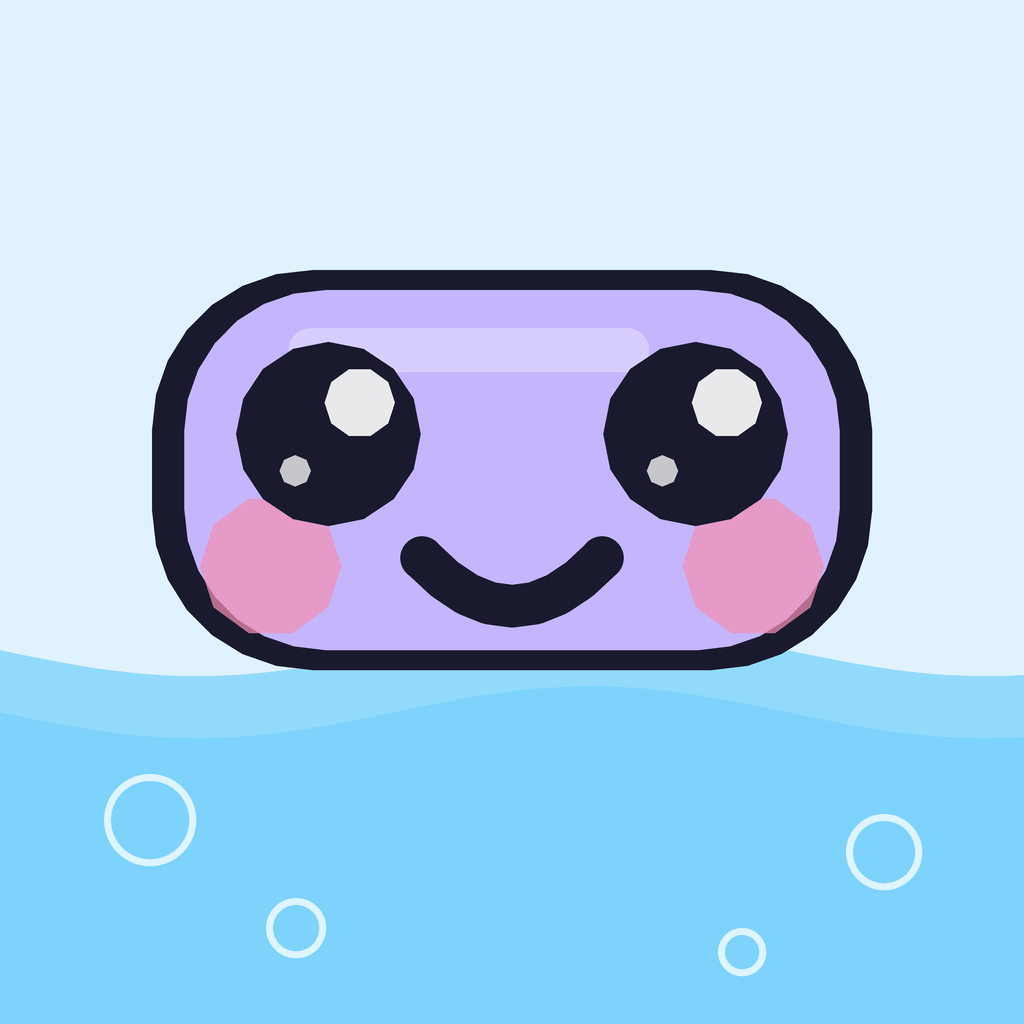
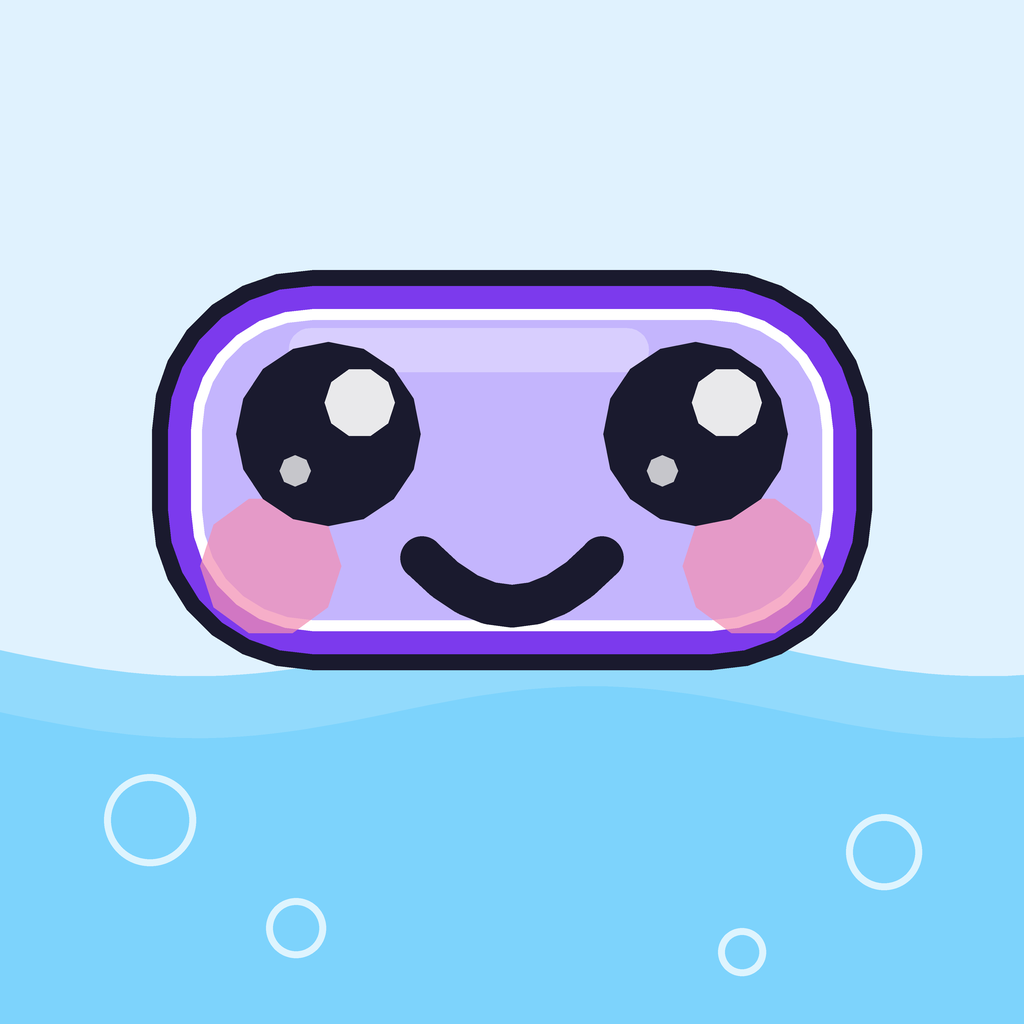
Give the soap character a violet+white sticker rim
Adds a double layer between the existing dark outline and the color
fill: a violet band (the same #7c3aed already used everywhere else in
the UI), then a thicker white band inset inside it. Violet goes first
because the lane itself is near-white (Spawner.gd's lane fill is
Color(1,1,1,0.92)) — a plain white rim alone would wash out against
it regardless of which mood color the fill is in.

SoapArt.body_violet()/body_white() are the new single source of
truth, and SoapArt.paint() draws them for every screen that already
routes through it (Win/Fail/GameComplete screens, the tutorial, the
logo, the in-game soap). MiniSoapIcon's two textured-skin branches
draw outline+fill by hand rather than through paint(), so those got
the same two layers added directly to stay in sync with the rest.

Also updates tools/generate_app_icon.py, the Python port used to
render SoapEscape_AppIcon_1024.png, with the same formulas, and
regenerates that PNG so it doesn't go stale next to this change.

Claude-Session: https://claude.ai/code/session_01VzHKSvNJpMF83EfecExY4v

Changed region(s): [[0.1562, 0.2812, 0.8438, 0.6562]]

diff --git a/tools/generate_app_icon.py b/tools/generate_app_icon.py
@@ -29,6 +29,14 @@ SKY = (224, 242, 254)       # #e0f2fe
 WATER = (125, 211, 252)     # #7dd3fc
 OUTLINE = (26, 26, 46)      # #1a1a2e
 FILL_CALM = (196, 181, 253) # #c4b5fd
+VIOLET_BAND = (124, 58, 237)  # #7c3aed - sticker rim, mirrors SoapArt.VIOLET_BAND_COLOR
+WHITE_BAND = (255, 255, 255) # sticker rim, mirrors SoapArt.WHITE_BAND_COLOR
+
+# Same absolute-band-width formulas as SoapArt.body_violet()/body_white()/
+# body_fill() - a reference hw of 18 is BASE_WIDTH at scale 1.0.
+_VIOLET_BAND_W = 0.80 / 18.0
+_WHITE_BAND_W = 1.15 / 18.0
+_FILL_GAP = 0.55 / 18.0
 SHEEN = (255, 255, 255, 87)   # white 0.34
 SHINE = (255, 255, 255, 230)  # white 0.90
 SPARK = (255, 255, 255, 191)  # white 0.75
@@ -116,9 +124,21 @@ def paint_soap(img, cx, cy, scale):
     hw, hh = w * 0.5, h * 0.5
     body_r = min(hw, hh) * 0.80
 
-    # Body: dark outline polygon, inset lavender fill, specular streak
+    # Body: dark outline, violet+white sticker rim, inset lavender fill,
+    # specular streak. Violet first - the lane itself is near-white, so a
+    # plain white rim alone washed out against it.
+    vw = hw * _VIOLET_BAND_W
+    ww = hw * _WHITE_BAND_W
+    gap = hw * _FILL_GAP
     blend_polygon(img, scaled(offset(rounded_rect(hw, hh, body_r), cx, cy)), OUTLINE + (255,))
-    blend_polygon(img, scaled(offset(rounded_rect(hw * 0.91, hh * 0.90, body_r * 0.88), cx, cy)),
+    r_violet = max(hw * (0.35 / 18.0), body_r - vw)
+    blend_polygon(img, scaled(offset(rounded_rect(hw - vw, hh - vw, r_violet), cx, cy)),
+                  VIOLET_BAND + (255,))
+    r_white = max(hw * (0.30 / 18.0), body_r - vw - ww)
+    blend_polygon(img, scaled(offset(rounded_rect(hw - vw - ww, hh - vw - ww, r_white), cx, cy)),
+                  WHITE_BAND + (255,))
+    r_fill = max(hw * (0.25 / 18.0), body_r - vw - ww - gap)
+    blend_polygon(img, scaled(offset(rounded_rect(hw - vw - ww - gap, hh - vw - ww - gap, r_fill), cx, cy)),
                   FILL_CALM + (255,))
     streak = rounded_rect(hw * 0.50, max(0.6, hh * 0.11), max(0.6, hh * 0.11))
     blend_polygon(img, scaled(offset(streak, cx - hw * 0.12, cy - hh * 0.60)), SHEEN)
